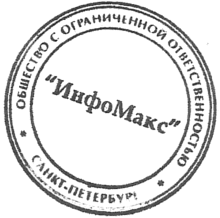
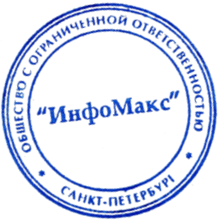
u

diff --git a/src/Crm/AdminBundle/Controller/XmlController.php b/src/Crm/AdminBundle/Controller/XmlController.php
@@ -265,10 +265,11 @@ class XmlController extends Controller
         $image->compositeImage($file, \Imagick::COMPOSITE_DEFAULT,0,0);
 
 
-
-        $stamp = new \Imagick($this->get('kernel')->getRootDir() . '/../web/bundles/crmmain/images/stamp/stamp_1.png');
+        $stampR = mt_rand(1,5);
+        $rightR = mt_rand(1,3);
+        $stamp = new \Imagick($this->get('kernel')->getRootDir() . '/../web/bundles/crmmain/images/stamp/stamp_'.$stampR.'.png');
         $stamp->resizeImage($stamp->getImageWidth()*0.85, $stamp->getImageHeight()*0.85, \Imagick::FILTER_LANCZOS,1);
-        $right = new \Imagick($this->get('kernel')->getRootDir() . '/../web/bundles/crmmain/images/right/right_1.png');
+        $right = new \Imagick($this->get('kernel')->getRootDir() . '/../web/bundles/crmmain/images/right/right_'.$rightR.'.png');
         $right->resizeImage($right->getImageWidth(), $right->getImageHeight()*0.85, \Imagick::FILTER_LANCZOS,1);
 
         if ($type !== 'doc'){
